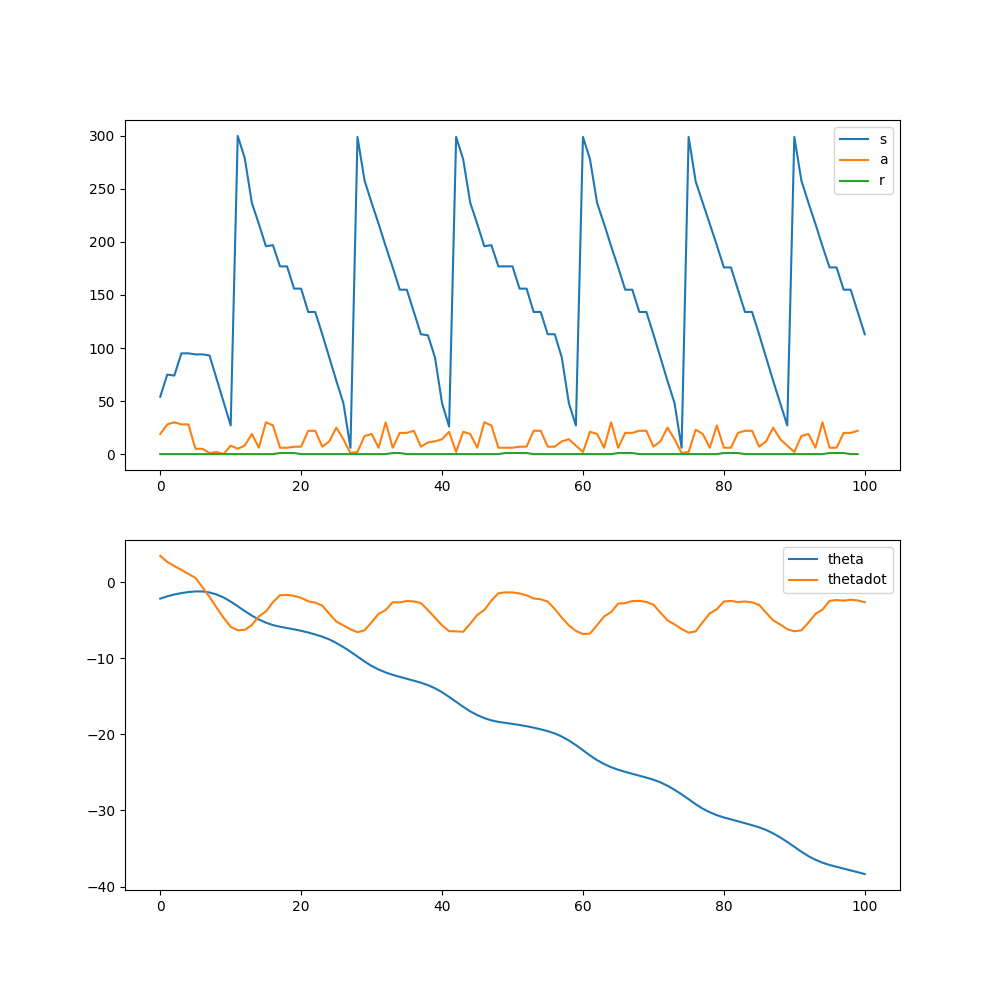
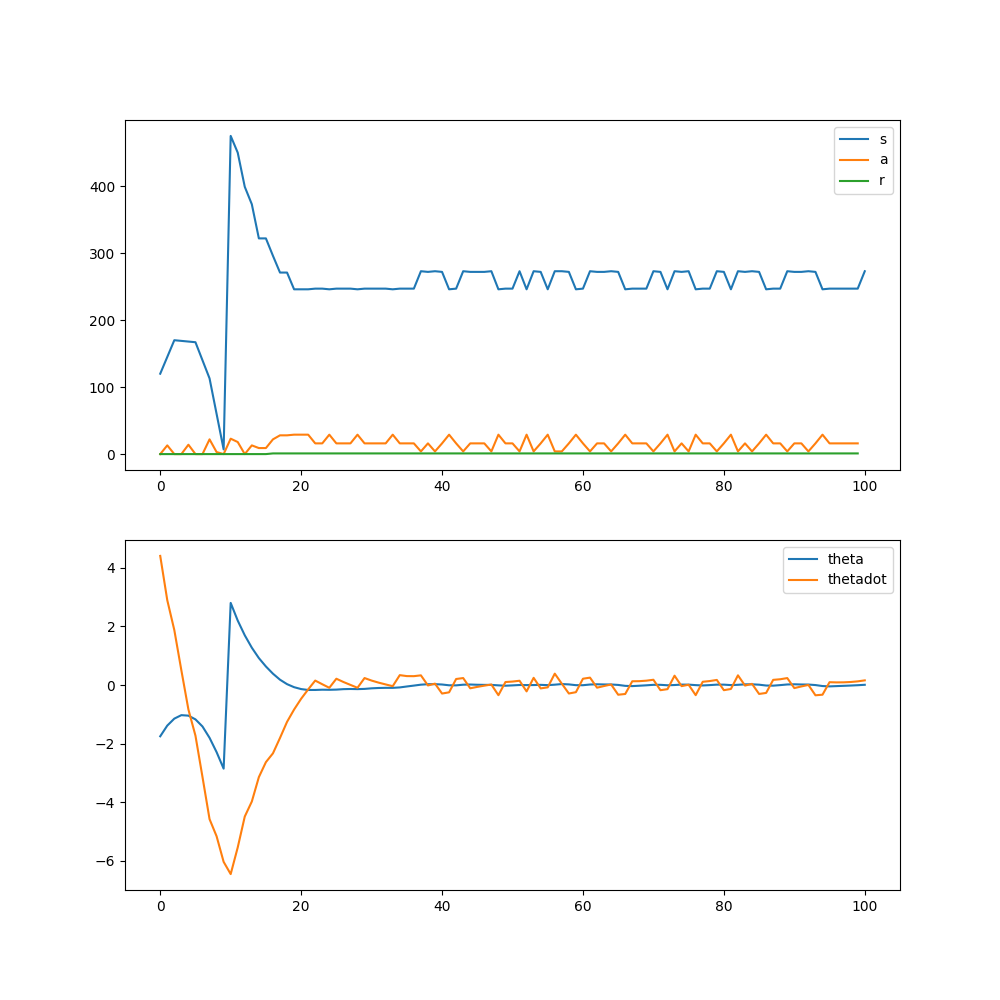
changed hyperparameters and added printing

diff --git a/plotters.py b/plotters.py
@@ -192,11 +192,12 @@ def plot_return(log, name, path):
     n = log['n']
 
     ax = plt.subplot()
-    ax.plot(n, G)
+    ax.scatter(n, G)
     plt.grid()
     plt.xlabel('Episode Number')
     plt.ylabel('G')
     plt.title("Episode Return")
+    plt.yscale("symlog")
     plt.savefig(os.path.join('.', 'figures', path, name))
     plt.close()
     return
@@ -221,9 +222,9 @@ def plot_learning_curve(logs, name, path, eOrATag):
         n = log['n']
 
         if eOrATag == 'e':
-            plt.plot(n, G, label=f'$\epsilon$ = %.3f' % log['epsilon'])
+            plt.scatter(n, G, label=f'$\epsilon$ = %.3f' % log['epsilon'])
         elif eOrATag == 'a':
-            plt.plot(n, G, label=f'α = %.3f' % log['alpha'])
+            plt.scatter(n, G, label=f'α = %.3f' % log['alpha'])
 
     plt.grid()
     plt.legend(loc="upper left")
@@ -234,6 +235,7 @@ def plot_learning_curve(logs, name, path, eOrATag):
         plt.title(f'Episode Return, α = %.3f' % log['alpha'])
     elif eOrATag == 'a':
         plt.title(f'Episode Return, $\epsilon$ = %.3f' % log['epsilon'])
+    plt.yscale("symlog")
     plt.savefig(os.path.join('.', 'figures', path, name))
     plt.close()
     return
@@ -273,13 +275,19 @@ def plot_example_traj_pendulum(pi_star, env, name, path):
         log['theta'].append(env.x[0])
         log['thetadot'].append(env.x[1])
 
+    # Clip theta
+    thetas = []
+    for theta in log['theta']:
+        thetas.append(((theta + np.pi) % (2 * np.pi)) - np.pi)
+
+
     # Plot data and save to png file
     fig, ax = plt.subplots(2, 1, figsize=(10, 10))
     ax[0].plot(log['t'], log['s'])
     ax[0].plot(log['t'][:-1], log['a'])
     ax[0].plot(log['t'][:-1], log['r'])
     ax[0].legend(['s', 'a', 'r'])
-    ax[1].plot(log['t'], log['theta'])
+    ax[1].plot(log['t'], thetas)
     ax[1].plot(log['t'], log['thetadot'])
     ax[1].legend(['theta', 'thetadot'])
     plt.savefig(os.path.join('.', 'figures', path, name))

diff --git a/train_pendulum.py b/train_pendulum.py
@@ -18,8 +18,8 @@ def main():
         env.reset()
 
         alpha = 0.5
-        epsilon = 0.4125
-        num_episodes = 1000
+        epsilon = 0.1
+        num_episodes = 15000
 
         # Apply unit test to check state representation
         test_x_to_s(env)
@@ -62,15 +62,15 @@ def main():
             plot_learning_curve(logs, 'SARSA_vary_alp.png', 'pendulum', 'a')
 
     if tag_Q_pendulum:
-        n_theta = 15
-        n_thetadot = 21
+        n_theta = 20
+        n_thetadot = 26
         env = discrete_pendulum.Pendulum(n_theta, n_thetadot)
 
         # Apply unit test to check state representation
         test_x_to_s(env)
 
         alpha = 0.5
-        epsilon = 0.42
+        epsilon = 0.1
         num_episodes = 1000
 
         env.reset()

diff --git a/train_gridworld.py b/train_gridworld.py
@@ -58,8 +58,8 @@ def main():
         env.reset()
 
         alpha = 0.5
-        epsilon = 1
-        num_episodes = 1000
+        epsilon = 0.1
+        num_episodes = 5000
 
         Q_star, pi_star, log = sarsa(env, alpha, epsilon, num_episodes)
         print(Q_star)
@@ -104,8 +104,8 @@ def main():
         env.reset()
 
         alpha = 0.5
-        epsilon = 1e-3
-        num_episodes = 1000
+        epsilon = 0.1
+        num_episodes = 5000
 
         Q_star, pi_star, log = q_learning(env, alpha, epsilon, num_episodes)
         print(Q_star)

diff --git a/SARSA.py b/SARSA.py
@@ -57,6 +57,10 @@ def sarsa(env, alpha, epsilon, num_episodes, gamma=0.95):
         log['n'].append(ii)
         log['return'].append(episode_return)
 
+        # Print if ii is a factor of 500
+        if (ii % 500) == 0:
+            print(f'SARSA Episode {ii} / {num_episodes}')
+
     # Get pi according to epsilon-greedy for all states
     pi = epsilon_greedy_pi_star(env.num_states, Q)
     # pi = np.zeros(env.num_states)

diff --git a/Q_learning.py b/Q_learning.py
@@ -54,6 +54,10 @@ def q_learning(env, alpha, epsilon, num_episodes, gamma=0.95):
         log['n'].append(ii)
         log['return'].append(episode_return)
 
+        # Print if ii is a factor of 500
+        if (ii % 500) == 0:
+            print(f'Q-Learning Episode {ii} / {num_episodes}')
+
     # Get pi according to epsilon-greedy for all states
     pi = epsilon_greedy_pi_star(env.num_states, Q)
 

diff --git a/TD_0.py b/TD_0.py
@@ -36,5 +36,9 @@ def TD_0(pi, env, alpha, num_episodes, gamma=0.95):
             V[s] = V[s] + alpha*(r + gamma*V[s1] - V[s])
             s = s1
 
+        # Print if ii is a factor of 500
+        if (ii % 500) == 0:
+            print(f'TD(0) Episode {ii} / {num_episodes}')
+
     return V
 
